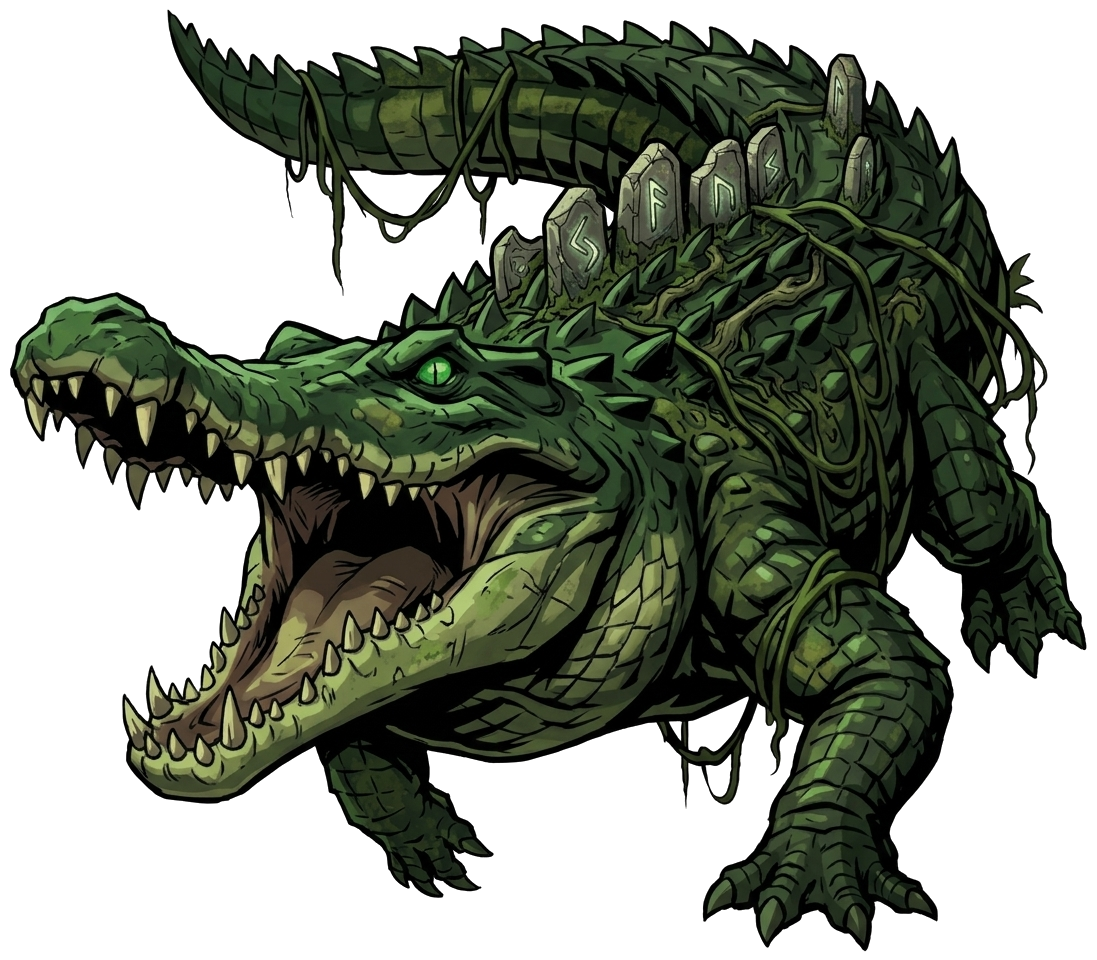
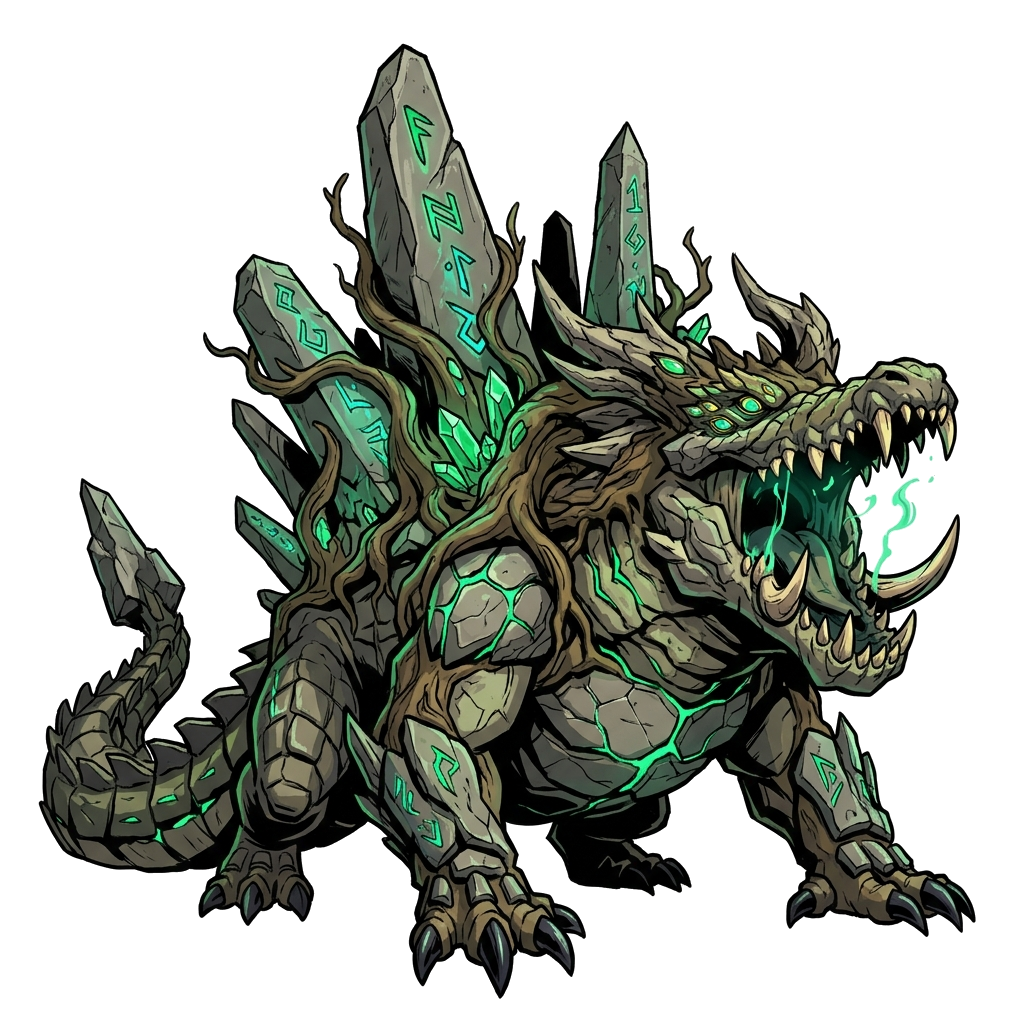
art(cards): regenerate Crocodilo-Monolito do Pantano with fantastical runic monolith and oak design

diff --git a/src/components/CardView.tsx b/src/components/CardView.tsx
@@ -363,7 +363,7 @@ export const CardView: React.FC<CardViewProps> = ({
           <div className={`mtg-token-art aura-${displayCard.domain}`}>
             {!imgError && displayCard.imagePath ? (
               <img
-                src={`${displayCard.imagePath}?v=53`}
+                src={`${displayCard.imagePath}?v=54`}
                 alt={displayName}
                 className="mtg-token-img"
                 onError={() => setImgError(true)}
@@ -520,7 +520,7 @@ export const CardView: React.FC<CardViewProps> = ({
 
           {!imgError && displayCard.imagePath ? (
             <img
-              src={`${displayCard.imagePath}?v=53`}
+              src={`${displayCard.imagePath}?v=54`}
               alt={displayName}
               className="card-cutout-img"
               onError={() => setImgError(true)}

diff --git a/src/components/MythologyAtlasView.tsx b/src/components/MythologyAtlasView.tsx
@@ -342,7 +342,7 @@ export const MythologyAtlasView: React.FC<MythologyAtlasViewProps> = ({ onInspec
                         title={`Clique para inspecionar ${card.name}`}
                       >
                         <img
-                          src={`${card.imagePath}?v=26`}
+                          src={`${card.imagePath}?v=27`}
                           alt={card.name}
                           className="poem-card-medallion-img"
                           loading="lazy"
